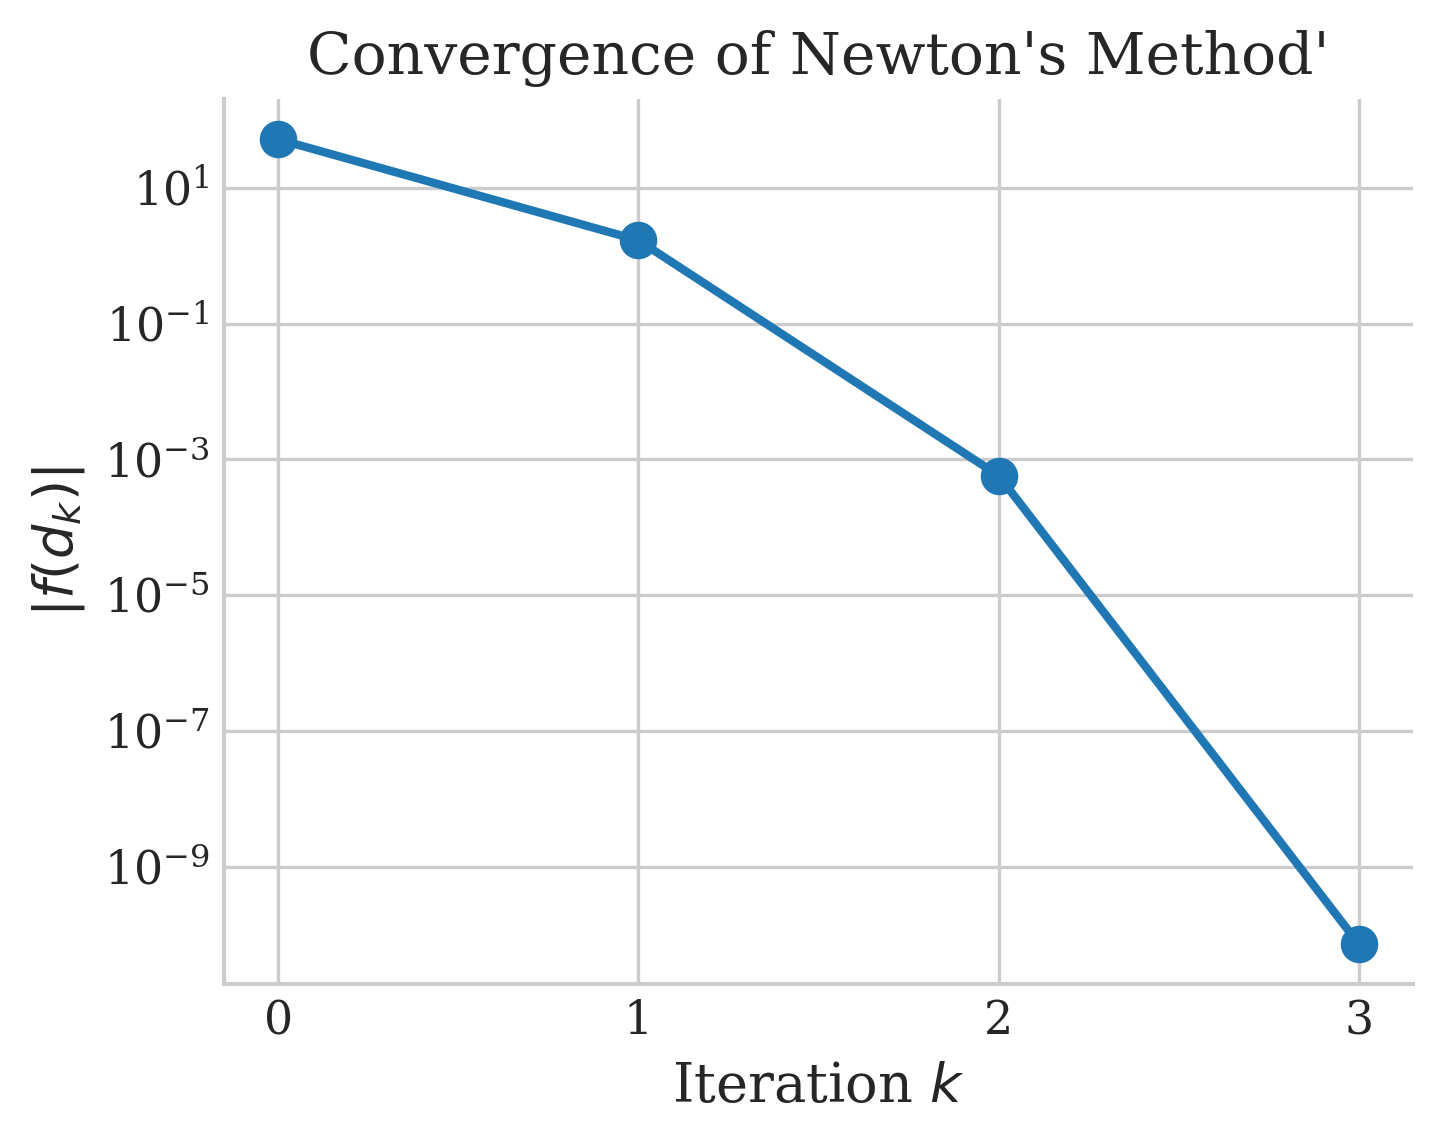
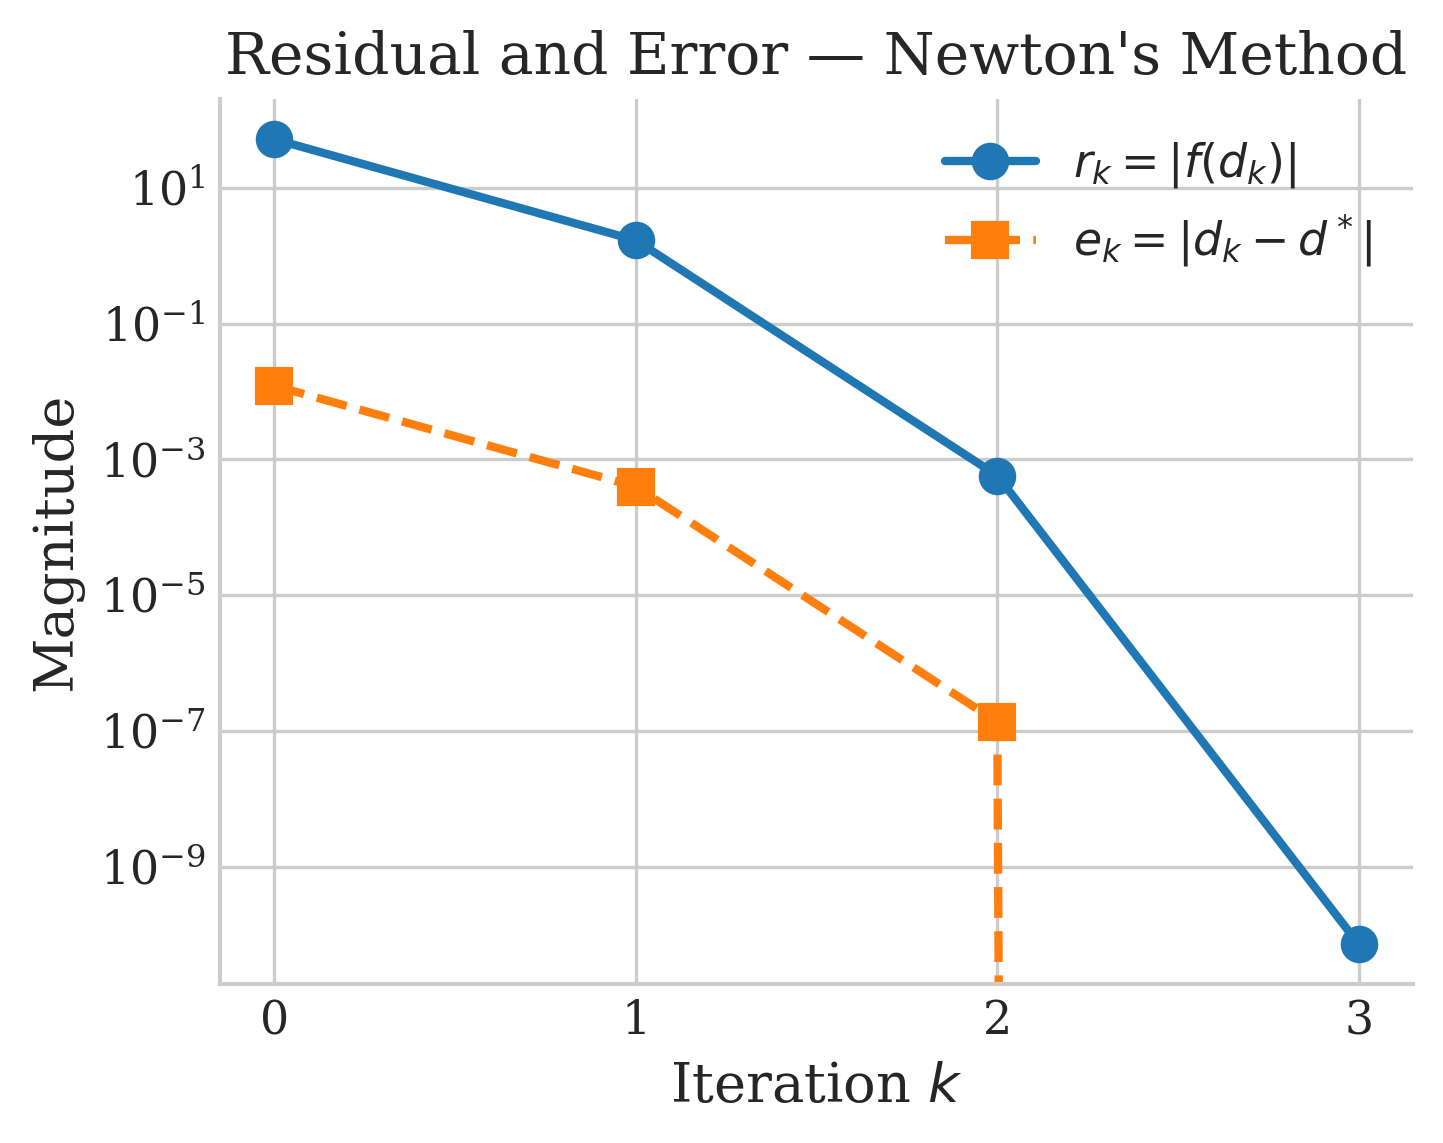
Added a Convergence Plot

diff --git a/Project/part1.1_diameter.py b/Project/part1.1_diameter.py
@@ -77,6 +77,7 @@ def NewtonRaphson(
 
 
 def main():
+    # -------------- Newton-Raphson -------------------------
     # Known constants
     Q = 801368  # W
     Aex = 64.15  # m^2
@@ -112,7 +113,21 @@ def main():
     )
     print(f"Converged on: {results.final_x}")
 
+    # -------------- Order of Convergence -------------------------
+    errors: list[float] = [abs(x - results.final_x) for x in results.xs]
+    p: list[float] = [
+        np.log(abs(errors[x + 1] / errors[x])) / np.log(abs(errors[x] / errors[x - 1]))
+        for x in range(1, len(errors) - 1)
+        if errors[x] > 0 and errors[x - 1] > 0 and errors[x + 1]
+    ]
+    for i, pi in enumerate(p):
+        print(f"p_{i + 1} = {pi:.6f}")
+        print(f"Iterations: {len(results.xs) - 1}")
+    print(f"Errors: {errors}")
+    # -------------- Verification -------------------------
+
     # [PLOT_START]
+    # ============= Plots =============
     plt.style.use("seaborn-v0_8-whitegrid")
 
     SMALL, MED, BIG = 11, 13, 14
@@ -131,7 +146,7 @@ def main():
         }
     )
 
-    # Plot 1: f(d)
+    # ------------- Plot Function -------------
     fig1, ax1 = plt.subplots(figsize=(6, 4))
 
     d_plot = np.linspace(0.003, 0.05, 600)
@@ -161,20 +176,23 @@ def main():
     fig1.tight_layout()
     fig1.savefig("plot_f.png", dpi=300, bbox_inches="tight")
 
-    # Plot 2: convergence
+    # ------------- Plot Convergence -------------
     residuals = [abs(fx) for fx in results.fs]
 
     fig2, ax2 = plt.subplots(figsize=(5, 4))
 
-    ax2.semilogy(results.ns, residuals, "o-", lw=2, ms=8)
+    ax2.semilogy(results.ns, residuals, "o-", lw=2, ms=8, label=r"$r_k = |f(d_k)|$")
+    ax2.semilogy(results.ns, errors, "s--", lw=2, ms=8, label=r"$e_k = |d_k - d^*|$")
     ax2.set_xlabel(r"Iteration $k$")
-    ax2.set_ylabel(r"$|f(d_k)|$")
-    ax2.set_title("Convergence of Newton's Method'")
+    ax2.set_ylabel(r"Magnitude")
+    ax2.set_title("Residual and Error — Newton's Method")
     ax2.xaxis.set_major_locator(ticker.MultipleLocator(1))
+    ax2.legend(frameon=False)
     fig2.tight_layout()
     fig2.savefig("plot_convergence.png", dpi=300, bbox_inches="tight")
 
+    # [PLOT_END]
 
-# [PLOT_END]
+
 if __name__ == "__main__":
     main()
